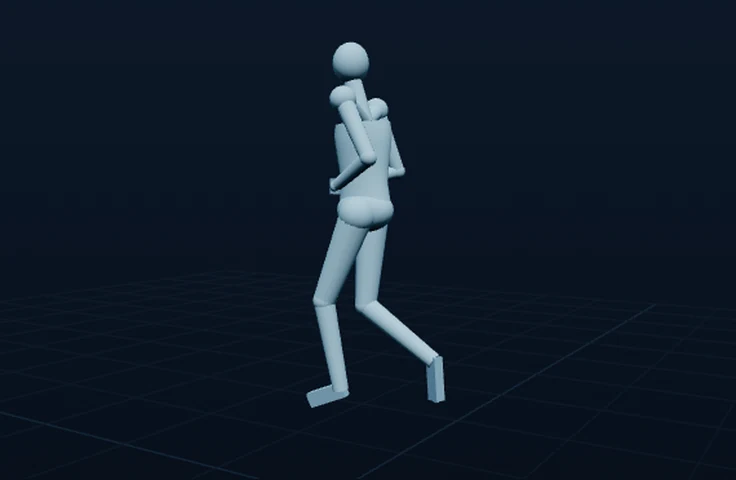
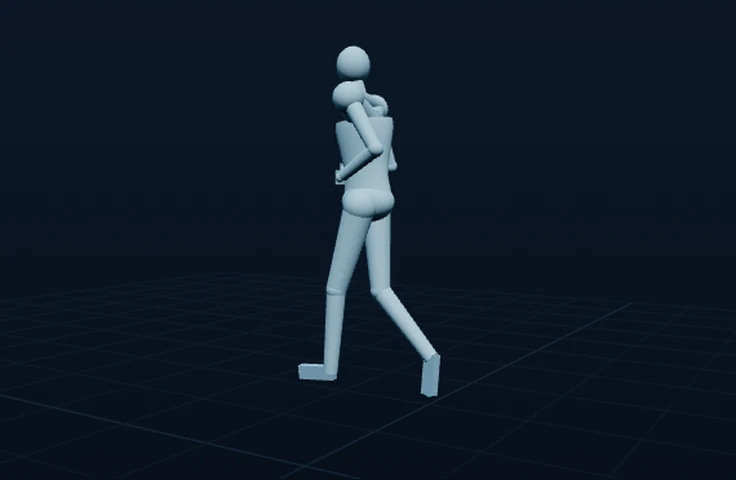
motion library: shoulder span and clavicle mass so torso flows into the arms

Changed region(s): [[0.4062, 0.0625, 0.625, 0.8438]]

diff --git a/motion-library/viewer.js b/motion-library/viewer.js
@@ -26,8 +26,8 @@ const matJoint = new THREE.MeshStandardMaterial({ color: 0xa8dcef, roughness: 0.
 const BODY = [
   // parent bone,  child bone,   radius at parent, radius at child, depth squash
   ['chest',      'head',       0.056, 0.044, 0.90],   // neck
-  ['chest',      'upperarm_l', 0.052, 0.050, 0.85],   // clavicle
-  ['chest',      'upperarm_r', 0.052, 0.050, 0.85],
+  ['chest',      'upperarm_l', 0.098, 0.070, 0.82],   // clavicle
+  ['chest',      'upperarm_r', 0.098, 0.070, 0.82],
   ['upperarm_l', 'forearm_l',  0.048, 0.038, 0.95],
   ['upperarm_r', 'forearm_r',  0.048, 0.038, 0.95],
   ['forearm_l',  'hand_l',     0.038, 0.028, 0.95],
@@ -37,10 +37,10 @@ const BODY = [
   ['shin_l',     'foot_l',     0.054, 0.040, 0.95],
   ['shin_r',     'foot_r',     0.054, 0.040, 0.95],
 ];
-const BALLS = [['upperarm_l', 0.064], ['upperarm_r', 0.064], ['thigh_l', 0.090], ['thigh_r', 0.090],
+const BALLS = [['upperarm_l', 0.083], ['upperarm_r', 0.083], ['thigh_l', 0.090], ['thigh_r', 0.090],
                ['forearm_l', 0.040], ['forearm_r', 0.040], ['shin_l', 0.056], ['shin_r', 0.056],
                ['hand_l', 0.030], ['hand_r', 0.030]];
-const TORSO_PROFILE = [[0.150, 0.00], [0.138, 0.16], [0.128, 0.34], [0.136, 0.52], [0.150, 0.72], [0.158, 0.88], [0.150, 1.00]];
+const TORSO_PROFILE = [[0.150, 0.00], [0.138, 0.16], [0.126, 0.34], [0.136, 0.52], [0.156, 0.72], [0.172, 0.90], [0.168, 1.00]];
 
 function buildSkeleton(clip) {
   const bones = clip.nodes.map((b) => {
@@ -86,11 +86,18 @@ function buildSkeleton(clip) {
     add({ kind: 'limb', mesh: new THREE.Mesh(geo, matBody), a: byName[pn], b: byName[cn], squash });
   }
 
+  if (byName.upperarm_l && byName.upperarm_r) {
+    const barGeo = new THREE.CylinderGeometry(0.074, 0.074, 1, 18, 1, false);
+    add({ kind: 'bar', mesh: new THREE.Mesh(barGeo, matBody), a: byName.upperarm_l, b: byName.upperarm_r });
+  }
   for (const [bn, r] of BALLS) {
     if (!byName[bn]) continue;
     add({ kind: 'ball', mesh: new THREE.Mesh(ballGeo, matBody), at: byName[bn], r });
   }
 
+  if (byName.chest) {
+    add({ kind: 'ball', mesh: new THREE.Mesh(ballGeo, matBody), at: byName.chest, r: 0.083 });
+  }
   if (byName.head) {
     add({ kind: 'head', mesh: new THREE.Mesh(ballGeo, matBody), at: byName.head });
   }
@@ -175,6 +182,15 @@ function updateRig() {
       part.at.getWorldPosition(_a);
       mesh.position.copy(_a);
       mesh.scale.set(0.052 * S, 0.075 * S, 0.028 * S);
+      continue;
+    }
+    if (part.kind === 'bar') {
+      part.a.getWorldPosition(_a);
+      part.b.getWorldPosition(_b);
+      _d.subVectors(_b, _a);
+      mesh.position.addVectors(_a, _b).multiplyScalar(0.5);
+      mesh.quaternion.setFromUnitVectors(_up, _d.clone().normalize());
+      mesh.scale.set(S, _d.length(), 0.8 * S);
       continue;
     }
     if (part.kind === 'torso') {

diff --git a/docs/WORKLOG.md b/docs/WORKLOG.md
@@ -269,3 +269,5 @@ Lareesa: "can you also make sure it's always SEO and GEO optimized?"
 - All 26 thumbnails re-rendered from the same scene at 45 % of each clip, dollied out 14 % so the head never clips the frame; saved 736x480 webp, displayed 368x240.
 - Camera fit loosened (1.22/1.30 to 1.34/1.40) so clips that rise mid-motion stay inside the stage.
 - Verified locally: 28 body parts + 23 joint pins per clip, thumbs reviewed on a contact sheet, stage checked on wave and stair_climb.
+
+- Shoulder pass: a shoulder span across the two upper-arm joints, heavier clavicles (98 mm to 70 mm) and 83 mm deltoid balls, so the torso flows into both arms with no step while the raised arm stays clean. 26 thumbnails re-rendered again at 45 % of each clip.
